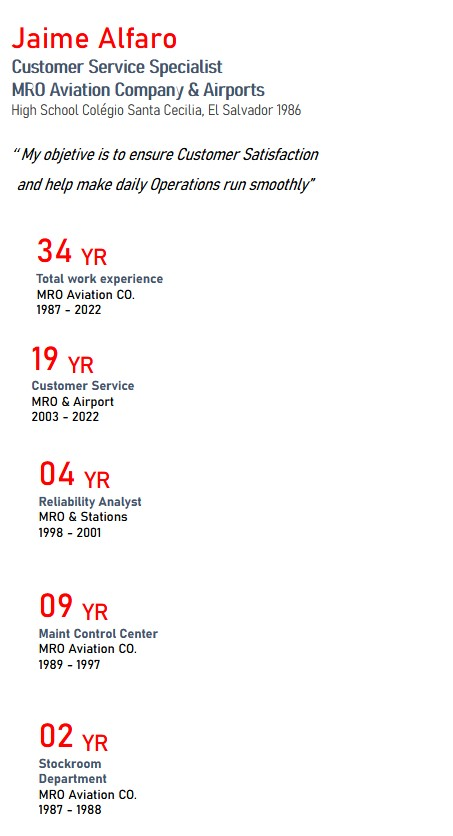
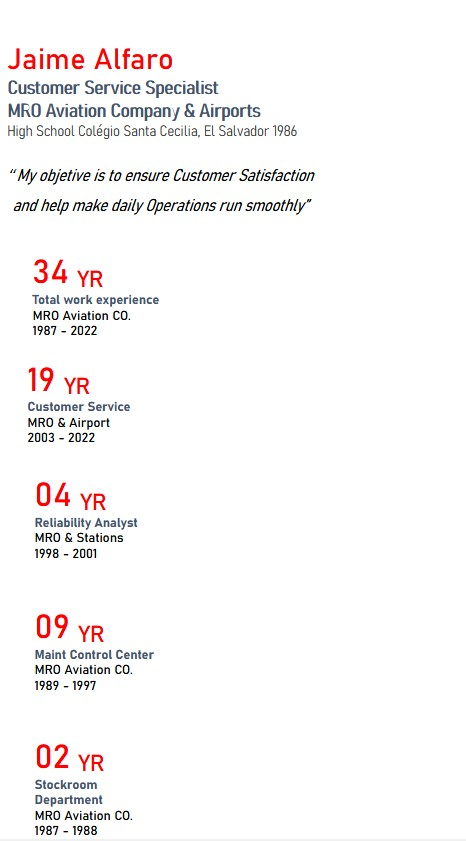
Add files via upload

Changed region(s): [[0.0618, 0.2799, 0.3709, 0.9952], [0.0, 0.0311, 0.7108, 0.2488]]

diff --git a/index.html b/index.html
@@ -62,7 +62,7 @@ li a:hover:not(.active) {
 
 			
 	
-		<li><a class="active" href="">JA</a></li>
+		<li><a class="active" href="">JAA</a></li>
 		<li><a href="https://shortcvs.github.io/jalfarocv/EN-CV.pdf">RESUME</a></li>
 		<!-- <li><a href="https://shortcvs.github.io/jalfarocv/999-CV.pdf">CV - SPANISH</a></li>-->
 		<li><a href="https://shortcvs.github.io/jalfarocv/CERTIFICATES.html">CERTIFICATES </a></li>
